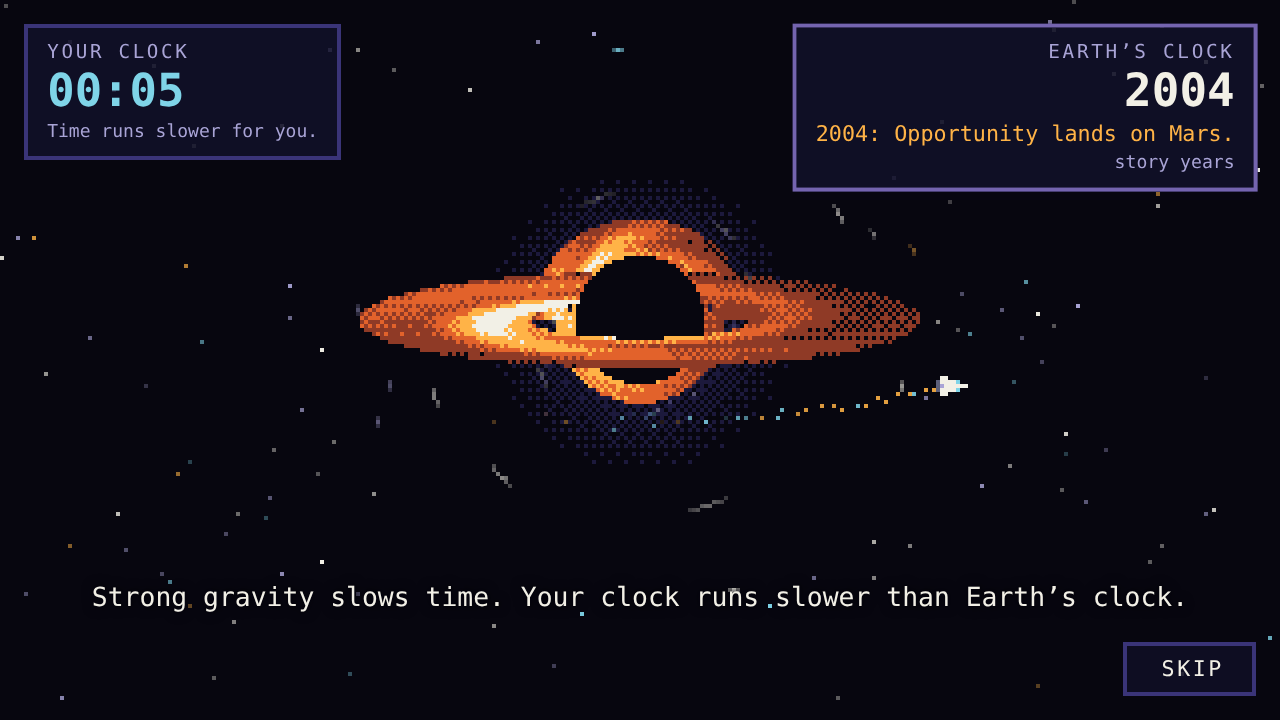
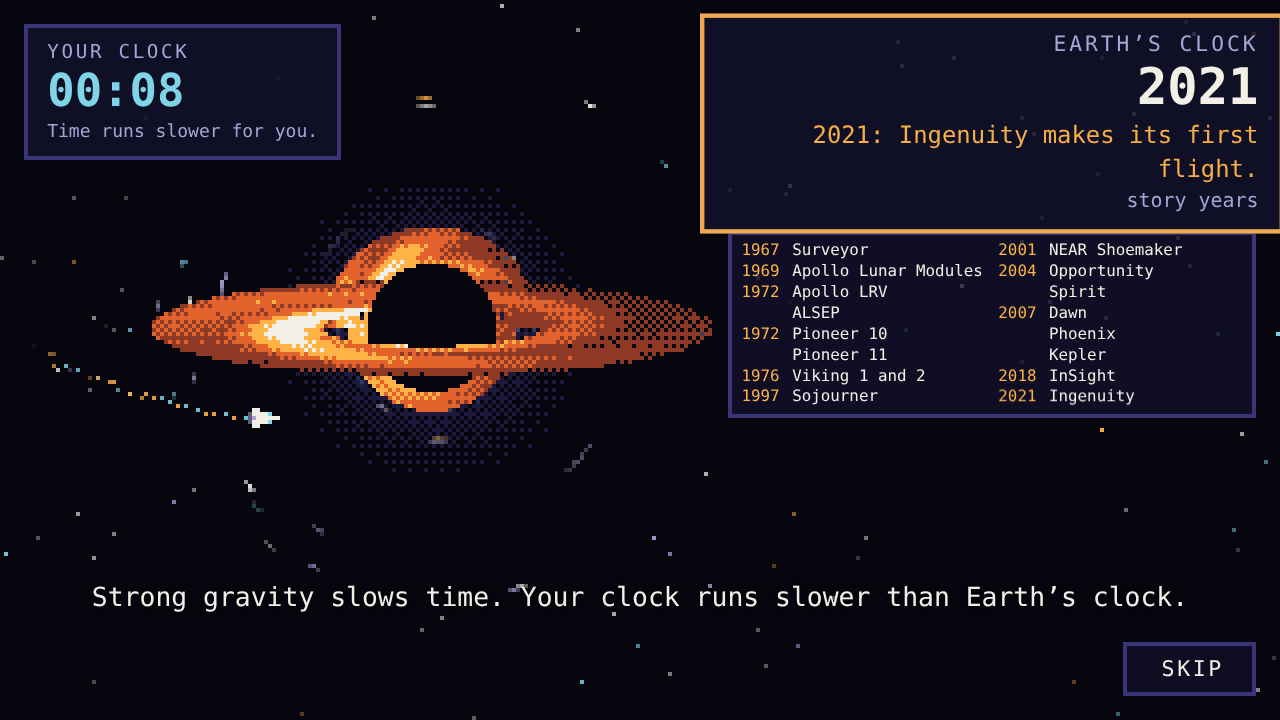
feat: list every resource with its year in intro clock

diff --git a/js/scenes/intro.js b/js/scenes/intro.js
@@ -11,6 +11,7 @@
 
 import { C, PALETTE } from '../data/palette.js';
 import { SPRITES } from '../data/sprites.js';
+import { timeline } from '../data/content.en.js';
 import { t } from '../engine/i18n.js';
 import { ctx, clear, px, drawSprite, WIDTH, HEIGHT } from '../engine/render.js';
 import { Particles, shake, ease, lerp, clamp } from '../engine/fx.js';
@@ -27,14 +28,19 @@ const T_FLASH = 1.3;          // arrival flash
 const ORBITS = 3;
 
 // GAME VALUE: story clock values. Earth's clock follows the eras of the machines.
-// Earth's clock only rolls forward. It runs fast between these stops, slows
-// down on each one and ends on the present. Each stop has a short caption.
-const STOPS = [1972, 1997, 2004, 2021, 2026];
-const ROLL_PART = 0.68;       // part of each step spent rolling; the rest is a pause on the stop
+// Earth's clock only rolls forward, from the earliest year in the timeline to
+// the present. It runs fast, and slows down and holds only on HOLDS, each with
+// a short caption. STOPS is the whole path: the start year, then the holds.
+const HOLDS = [1972, 1997, 2004, 2021, 2026];
+const START_YEAR = Math.min(...timeline.filter((e) => e.year).map((e) => e.year));
+const STOPS = [START_YEAR, ...HOLDS];
+const ROLL_PART = 0.55;       // part of each step spent rolling; the rest is a pause on the stop
+const T_CLOCK = 2;            // the clock starts rolling this many seconds into the intro
+const LIST_GAP = 0.2;         // seconds between two new lines of the list, so each one gets its blip
 const SHIP_MINUTES = 12;      // GAME VALUE: minutes that pass on the ship clock
 
-const HOLE_END = { x: 160, y: 80, rs: 16 };   // final position and shadow radius
-const HOLE_START = { x: 206, y: 66, rs: 2.5 };
+const HOLE_END = { x: 108, y: 82, rs: 16 };    // left of center: the list of machines fills the right side   // final position and shadow radius
+const HOLE_START = { x: 160, y: 66, rs: 2.5 };
 const CAPTION_TIMES = [0.4, 4.6, 9.4, 14];  // when each caption line appears
 
 // ---------- state ----------
@@ -44,6 +50,7 @@ let ship;                     // { x, y, behind, flip }
 let stars, trail;
 let drift;                    // how far the background stars have moved
 let lastYear, lastStop, lastCaption, lastMinutes, lastClockBlip;
+let listShown, listTimer;      // how many lines of the list are visible, and time since the last one
 let dom, offInput;
 
 // Off-screen canvas for the per-pixel black hole picture.
@@ -190,7 +197,7 @@ function orbitProgress() {
 const PHI0 = 2.5;   // where on the orbit the ship joins (front left)
 function orbitPoint(phi) {
   return {
-    x: hole.x + Math.cos(phi) * hole.rs * 6.4,
+    x: hole.x + Math.cos(phi) * hole.rs * 5.6,
     y: hole.y + Math.sin(phi) * hole.rs * 1.55,
   };
 }
@@ -225,21 +232,33 @@ function buildUI(ui) {
   shipBox.append(el('span', 'clock-label', t('intro.shipClock')), shipValue, el('span', 'clock-note', t('intro.slower')));
   const outBox = el('div', 'clock right');
   const outValue = el('span', 'clock-value', String(STOPS[0]));
-  const outEvent = el('span', 'clock-event', t(`intro.stop.${STOPS[0]}`));
+  const outEvent = el('span', 'clock-event');
   outEvent.setAttribute('aria-live', 'polite');
   outBox.append(el('span', 'clock-label', t('intro.outsideClock')), outValue, outEvent, el('span', 'clock-note', t('intro.storyYears')));
-  clocks.append(shipBox, outBox);
+
+  // Under Earth's clock: every machine with its year, filled in as the clock passes it.
+  const list = el('ol', 'timeline');
+  const lines = timeline.map((entry) => {
+    const line = el('li', 'tl-line');
+    line.append(el('span', 'tl-year', entry.year ? String(entry.year) : ''), el('span', 'tl-name', t(entry.name)));
+    list.append(line);
+    return line;
+  });
+  const right = el('div', 'clock-column');
+  right.append(outBox, list);
+  clocks.append(shipBox, right);
 
   const caption = el('p', 'caption');
   caption.setAttribute('aria-live', 'polite');
   ui.append(clocks, caption);
-  dom = { shipValue, outValue, outEvent, outBox, caption };
+  dom = { shipValue, outValue, outEvent, outBox, caption, lines };
 
   if (still) {
     // Reduced motion: one still frame, final clock values, and a button.
     shipValue.textContent = shipClockText(SHIP_MINUTES);
     outValue.textContent = `${STOPS[0]} \u2192 ${STOPS[STOPS.length - 1]}`;
     outEvent.textContent = t(`intro.stop.${STOPS[STOPS.length - 1]}`);
+    lines.forEach((line) => line.classList.add('on'));
     caption.textContent = `${t('intro.line.3')} ${t('intro.line.4')}`;
     caption.classList.add('show');
     const go = button(t('intro.continue'), finish, 'primary corner');
@@ -267,6 +286,8 @@ export default {
     drift = 0;
     lastYear = STOPS[0];
     lastStop = 0;
+    listShown = 0;
+    listTimer = LIST_GAP;
     lastCaption = -1;
     lastMinutes = 0;
     lastClockBlip = 0;
@@ -328,7 +349,7 @@ export default {
     trail.update(dt);
 
     // Clocks.
-    const earth = earthClock(clamp((time - T_APPROACH) / T_ORBITS));
+    const earth = earthClock(clamp((time - T_CLOCK) / (T_APPROACH + T_ORBITS - T_CLOCK)));
     if (earth.year !== lastYear) {
       lastYear = earth.year;
       dom.outValue.textContent = String(earth.year);
@@ -338,12 +359,25 @@ export default {
       lastStop = earth.stop;
       // Rolling: the caption fades out. On a stop: show its caption with a small "bump".
       dom.outEvent.classList.toggle('rolling', earth.stop < 0);
-      if (earth.stop >= 0) {
+      if (earth.stop > 0) {
         dom.outEvent.textContent = t(`intro.stop.${STOPS[earth.stop]}`);
         dom.outBox.classList.remove('bump');
         void dom.outBox.offsetWidth;
         dom.outBox.classList.add('bump');
         sfx('select');
+      }
+    }
+    // The list: a line appears when the clock reaches its year. A machine with
+    // no verified year appears right after the one before it.
+    listTimer += dt;
+    if (listShown < timeline.length && listTimer >= LIST_GAP && time > 0.8) {
+      let due = timeline[listShown].year;
+      for (let i = listShown; due === null && i >= 0; i--) due = timeline[i].year;
+      if (earth.year >= (due ?? START_YEAR)) {
+        dom.lines[listShown].classList.add('on');
+        listShown++;
+        listTimer = 0;
+        sfx('tick');
       }
     }
     const minutes = Math.floor(p * SHIP_MINUTES);

diff --git a/js/data/content.en.js b/js/data/content.en.js
@@ -38,6 +38,23 @@ export const strings = {
   'intro.outsideClock': 'Earth\u2019s clock',
   'intro.storyYears': 'story years',
   'intro.slower': 'Time runs slower for you.',
+  // Names for the list under Earth's clock (the years are in `timeline` below).
+  'tl.surveyor': 'Surveyor',
+  'tl.lm': 'Apollo Lunar Modules',
+  'tl.lrv': 'Apollo LRV',
+  'tl.alsep': 'ALSEP',
+  'tl.pioneer10': 'Pioneer 10',
+  'tl.pioneer11': 'Pioneer 11',
+  'tl.viking': 'Viking 1 and 2',
+  'tl.sojourner': 'Sojourner',
+  'tl.near': 'NEAR Shoemaker',
+  'tl.opportunity': 'Opportunity',
+  'tl.spirit': 'Spirit',
+  'tl.dawn': 'Dawn',
+  'tl.phoenix': 'Phoenix',
+  'tl.kepler': 'Kepler',
+  'tl.insight': 'InSight',
+  'tl.ingenuity': 'Ingenuity',
   'intro.stop.1972': '1972: Pioneer 10 is launched.',
   'intro.stop.1997': '1997: Sojourner lands on Mars.',
   'intro.stop.2004': '2004: Opportunity lands on Mars.',
@@ -469,4 +486,27 @@ export const wall = ['lm', 'alsep', 'phoenix', 'kepler', 'pioneer11'].map((id) =
   name: `wall.${id}.name`, textKey: `wall.${id}.text`, sourceId: 'spaceapps-resources',
 }));
 
-export default { strings, machines, science, echoes, wall };
+// Intro timeline: every official resource, in order, with a year only when the
+// facts in this project verify one. `year: null` means "show the name only".
+// Each year notes the fact it comes from.
+const when = (id, year, sourceId = null) => ({ name: `tl.${id}`, year, sourceId });
+export const timeline = [
+  when('surveyor', 1967, 'beyond-earth'),          // Surveyor 3 landed on 20 April 1967
+  when('lm', 1969, 'nssdca-a12'),                  // Apollo 12's Intrepid landed on 19 November 1969
+  when('lrv', 1972, 'beyond-earth'),               // Apollo 17 LRV distance record, December 1972
+  when('alsep', null),
+  when('pioneer10', 1972, 'nasa-pioneer10'),       // launched 2 March 1972
+  when('pioneer11', null),
+  when('viking', 1976, 'nasa-viking1'),            // Viking 1 lander touched down on 20 July 1976
+  when('sojourner', 1997, 'nasa-pathfinder'),      // rolled out on 5 July 1997
+  when('near', 2001, 'nasa-near'),                 // touched down on Eros on 12 February 2001
+  when('opportunity', 2004, 'nasa-mer'),           // landed on 24 January 2004
+  when('spirit', null),
+  when('dawn', 2007, 'nasa-dawn'),                 // launched 27 September 2007
+  when('phoenix', null),
+  when('kepler', null),
+  when('insight', 2018, 'nasa-insight'),           // landed 26 November 2018
+  when('ingenuity', 2021, 'nasa-ingenuity'),       // first flight 19 April 2021
+];
+
+export default { strings, machines, science, echoes, wall, timeline };

diff --git a/css/style.css b/css/style.css
@@ -758,3 +758,25 @@ a.source-title { color: var(--amber); }
 .ghost.machine .ghost-label { font-size: 0.72em; line-height: 1.12; padding: 0 0.5em 0.05em; letter-spacing: 0; }
 .ghost.machine .ghost-name { letter-spacing: 0.06em; }
 .ghost.machine .ghost-years, .ghost.machine .ghost-done { font-size: 0.92em; letter-spacing: 0.04em; }
+
+/* ---------- intro: the list of machines under Earth's clock ---------- */
+.clock-column { display: flex; flex-direction: column; align-items: stretch; gap: calc(var(--u) * 2); width: 22em; }
+.clock-column .clock.right { min-width: 0; }
+.timeline {
+  margin: 0;
+  padding: 0.35em 0.6em 0.4em;
+  list-style: none;
+  display: grid;
+  grid-template-rows: repeat(8, auto);
+  grid-auto-flow: column;
+  grid-auto-columns: 1fr;
+  column-gap: 0.8em;
+  font-size: 0.66em;
+  line-height: 1.32;
+  background: rgba(18, 17, 42, 0.78);
+  border: var(--u) solid var(--indigo);
+}
+.tl-line { display: flex; gap: 0.6em; white-space: nowrap; opacity: 0; transform: translateY(0.3em); transition: opacity 0.45s, transform 0.45s; }
+.tl-line.on { opacity: 1; transform: none; }
+.tl-year { flex: none; width: 2.6em; color: var(--amber); font-variant-numeric: tabular-nums; }
+.tl-name { color: var(--star); overflow: hidden; text-overflow: ellipsis; }

diff --git a/js/data/content.es.js b/js/data/content.es.js
@@ -33,6 +33,23 @@ export const strings = {
   'intro.outsideClock': 'Reloj de la Tierra',
   'intro.storyYears': 'años de la historia',
   'intro.slower': 'El tiempo pasa más lento para ti.',
+  // Nombres para la lista bajo el reloj de la Tierra.
+  'tl.surveyor': 'Surveyor',
+  'tl.lm': 'Módulos Lunares Apollo',
+  'tl.lrv': 'LRV de Apollo',
+  'tl.alsep': 'ALSEP',
+  'tl.pioneer10': 'Pioneer 10',
+  'tl.pioneer11': 'Pioneer 11',
+  'tl.viking': 'Viking 1 y 2',
+  'tl.sojourner': 'Sojourner',
+  'tl.near': 'NEAR Shoemaker',
+  'tl.opportunity': 'Opportunity',
+  'tl.spirit': 'Spirit',
+  'tl.dawn': 'Dawn',
+  'tl.phoenix': 'Phoenix',
+  'tl.kepler': 'Kepler',
+  'tl.insight': 'InSight',
+  'tl.ingenuity': 'Ingenuity',
   'intro.stop.1972': '1972: se lanza Pioneer 10.',
   'intro.stop.1997': '1997: Sojourner aterriza en Marte.',
   'intro.stop.2004': '2004: Opportunity aterriza en Marte.',
